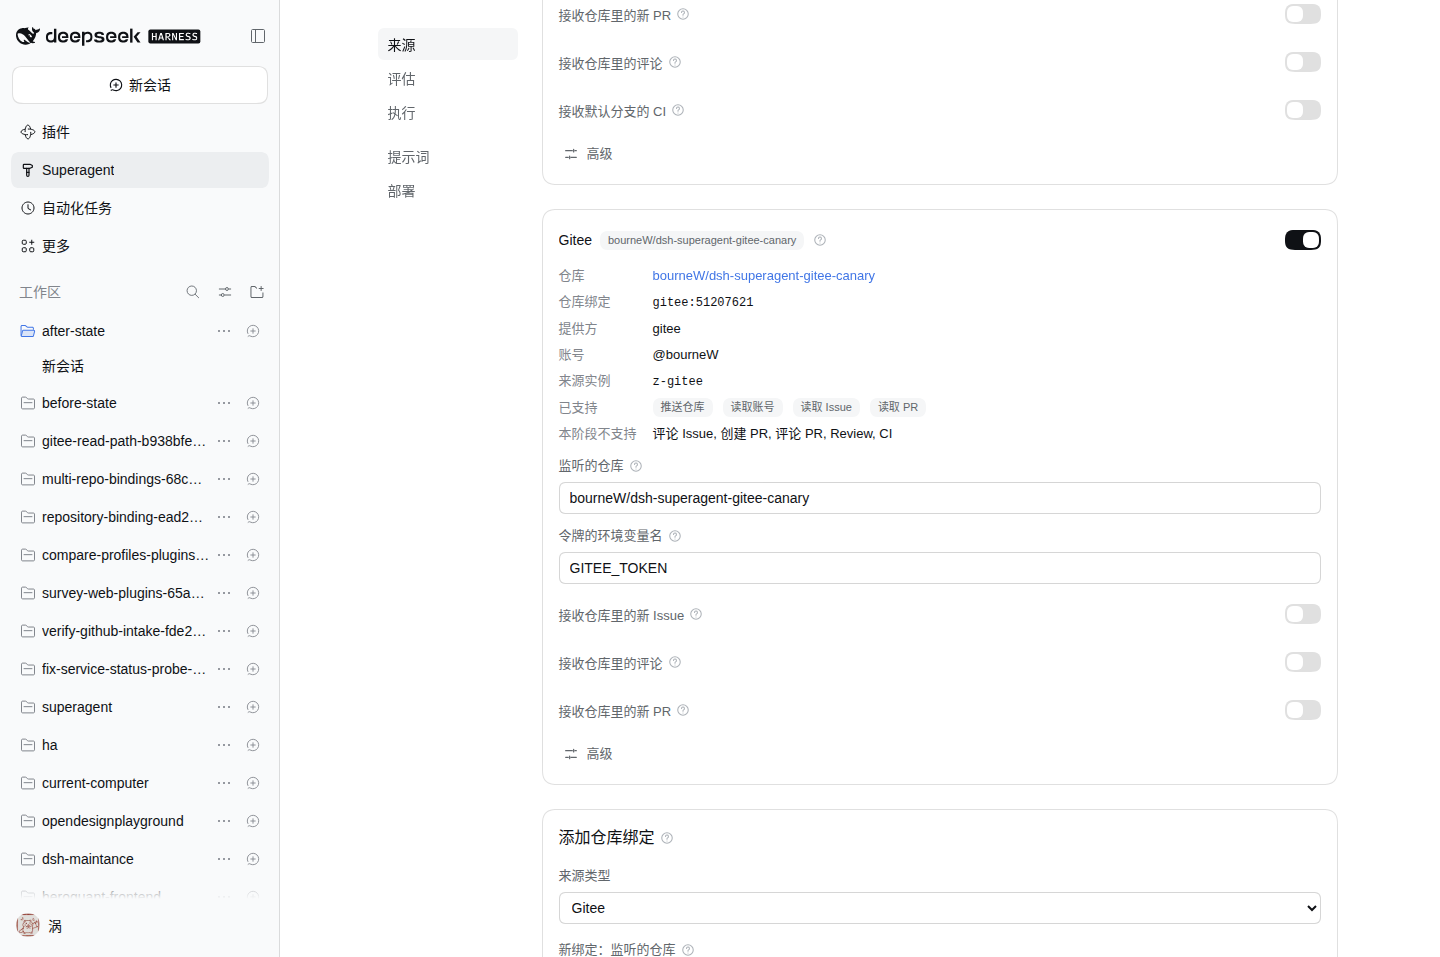
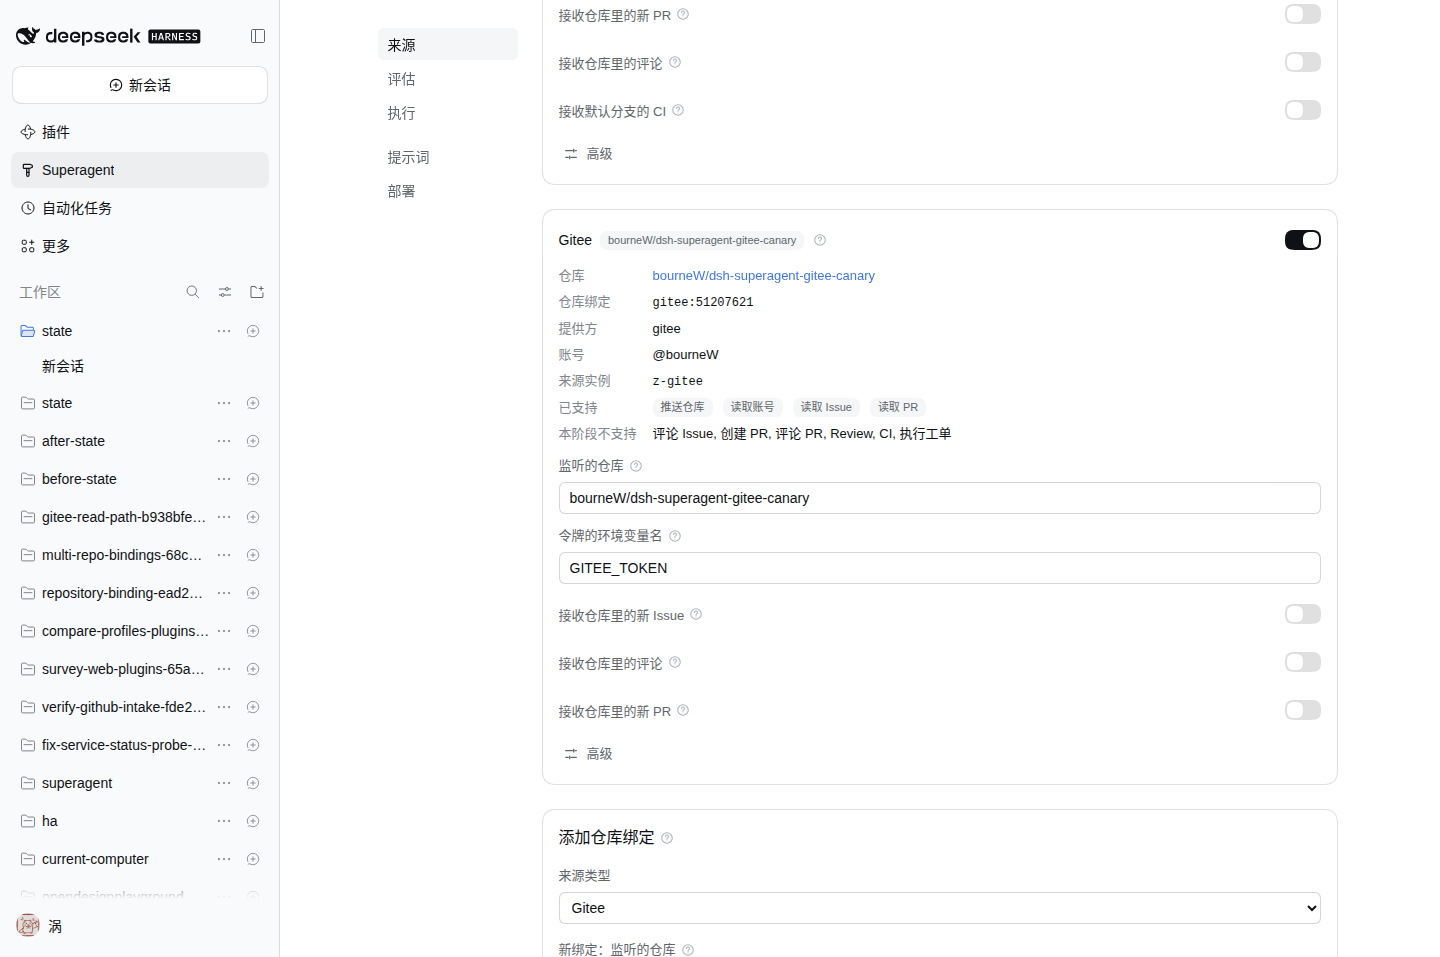
fix: gate ticket execution on the binding's capability
Remove the unused GithubSourceInput compatibility alias. Add a persisted
execution capability to RepositoryBinding capabilities, wire it through
EngineOptions.executionAllowed, and record an accept for a binding that
cannot execute as an executionUnsupported ignore, so no Ticket or
runnable Assignment is created. Gitee reports execution false until
Phase 4 implements the complete write path.

Refs #13

diff --git a/tests/gitee-source.spec.ts b/tests/gitee-source.spec.ts
@@ -10,7 +10,7 @@ import { Store } from '../src/app/store.ts'
 import { sourceContextOf, type SourceContextDeps } from '../src/app/source-context.ts'
 import { SourceRegistry, healthKey } from '../src/sources/registry.ts'
 import { HealthBoard } from '../src/infra/health.ts'
-import { giteeKind, pollWhenEnabled } from '../src/sources/gitee.ts'
+import { giteeIssueTrigger, giteeKind, pollWhenEnabled } from '../src/sources/gitee.ts'
 import { giteeForgeAdapter } from '../src/forge/gitee.ts'
 import { resolveDeployment } from '../src/deployment.ts'
 import { repositoryId, type RepositoryBinding } from '../src/repository.ts'
@@ -56,6 +56,7 @@ interface Harness {
   deployment: ReturnType<typeof testDeployment>
   engine: Engine
   candidates: Candidate[]
+  starts: string[]
   ctx: (id: string) => SourceContext
   close(): void
 }
@@ -84,14 +85,17 @@ function harness(options: { accounts?: Record<string, string>; observePulls?: bo
     giteeCredentials: Object.fromEntries(bindings.map(item => [item.binding.credentialId, { tokenEnv: 'GITEE_TOKEN',
       login: accounts[item.sourceId]!, userId: item.sourceId === 'gitee-a' ? '618074' : '700001' }])) })
   const candidates: Candidate[] = []
+  const starts: string[] = []
   const assessor: Assessor = { request: candidate => { candidates.push(candidate) } }
   const engine = new Engine({ repo: store, scope: sources, policy: () => settingsPolicy(store.settings(), sources), assessor,
-    executor: { start: vi.fn(), deliver: vi.fn(), stop: vi.fn() }, outbox: { send: vi.fn(), status: () => undefined, withdraw: vi.fn() },
+    executor: { start: ticket => { starts.push(ticket.id) }, deliver: vi.fn(), stop: vi.fn() }, outbox: { send: vi.fn(), status: () => undefined, withdraw: vi.fn() },
     threadRepository: ref => sources.bindingOf(ref.source)?.id ?? ref.repositoryId ?? null, repositoryExists: id => !!store.repositories.get(id),
+    // The Runtime wires the same provider-neutral capability check; a Gitee binding reports execution false in Phase 3.
+    executionAllowed: id => id === null ? true : store.repositories.get(id)?.capabilities.execution === true,
     emit: () => {}, prepareTicket: ticket => ticket })
   const deps: SourceContextDeps = { store, engine, outbox: { send: vi.fn() }, commands: testCommands(() => deployment, {}, undefined, null),
     sources, deployment, ready: Promise.resolve(), configured: () => true, receive: trigger => engine.receive(trigger) }
-  return { directory, database, store, board, sources, deployment, engine, candidates, ctx: id => sourceContextOf(deps, giteeKind, id),
+  return { directory, database, store, board, sources, deployment, engine, candidates, starts, ctx: id => sourceContextOf(deps, giteeKind, id),
     close: () => { store.close(); rmSync(directory, { recursive: true, force: true }) } }
 }
 const seed = (store: Store, binding: RepositoryBinding, sourceId = 'gitee-a') =>
@@ -162,6 +166,28 @@ describe('Gitee read path', () => {
       expect(threadKey(pulls[0]!.threads[0]!)).toBe('gitee-a:pull:1446764')
       expect(h.store.tickets.open()).toEqual([])
       expect(h.deployment.repositories[0]!.capabilities.pulls).toMatchObject({ create: false, comment: false, reviews: false })
+    } finally { h.close() }
+  })
+
+  it('does not accept a Gitee Trigger whose binding has no execution capability, so no Assignment is runnable', () => {
+    const h = harness()
+    try {
+      // Phase 3's Gitee adapter reports execution unsupported; a GitHub adapter reports it supported.
+      expect(A.capabilities.execution).toBe(false)
+      expect(giteeForgeAdapter.capabilities.execution).toBe(false)
+      const issue = { nativeId: '9001', displayNumber: 'IKS9001', threadId: '9001', title: 'Fix the login',
+        body: '@agent-bot please fix the login', author: { providerUserId: 'u-alice', login: 'alice' }, createdAt: at, updatedAt: at,
+        webUrl: `${A.webUrl}/issues/IKS9001`, comments: 0 }
+      const trigger = giteeIssueTrigger(issue, 'agent-bot', { sourceId: 'gitee-a', repositoryId: A.id })
+      h.engine.receive(trigger)
+      h.engine.evaluateDue()
+      const candidate = h.candidates.at(-1)!
+      const decision = h.engine.decide(trigger.id, { kind: 'accept', title: 'Fix the login', scope: 'the login form', reason: 'asked',
+        evalId: candidate.evalId })
+      expect(decision).toMatchObject({ kind: 'ignore', reason: [{ code: 'executionUnsupported' }] })
+      expect(decision.ticketId).toBeUndefined()
+      expect(h.store.tickets.list()).toEqual([])
+      expect(h.starts).toEqual([])
     } finally { h.close() }
   })
 

diff --git a/src/client/locales.ts b/src/client/locales.ts
@@ -168,6 +168,7 @@ const TEXT = {
   'sourceCapability.pulls.comment': ['评论 PR', 'Comment on pull requests'],
   'sourceCapability.pulls.reviews': ['Review', 'Reviews'],
   'sourceCapability.ci': ['CI', 'CI'],
+  'sourceCapability.execution': ['执行工单', 'Execute tickets'],
   sourceOpenTicketsLabel: ['打开工单', 'Open tickets'],
   sourceQueuedLabel: ['排队启动', 'Queued launches'],
   sourceRepositoryUnbound: ['等待部署检查绑定仓库', 'Waiting for the deployment check to bind a repository'],
@@ -621,6 +622,7 @@ const TEXT = {
   'reason.directionUnsettled': ['实现意图或目标未确定，或还要产品或设计决定', 'Intent or target not settled, or a product or design decision is still open'],
   'reason.noRuleMatched': ['没有启用的准入规则匹配', 'No enabled admission rule matched'],
   'reason.ignoredFromCard': ['仅凭候选卡片忽略，未经规则研判', 'Ignored from its card, without a rule assessment'],
+  'reason.executionUnsupported': ['这个仓库绑定还不能执行工作', 'This repository binding cannot execute work yet'],
   'reason.observed': ['观察模式：本会接单（{text}）', 'Observe mode: would accept ({text})'],
   'reason.explicitRouted': ['名单里的人明确请求，由主 Session 接单', 'Explicit request from someone on the list, accepted by the main Session'],
   'reason.legacyImport': ['从旧版工单记录导入', 'Imported from a legacy Ticket record'],

diff --git a/src/core/evals.ts b/src/core/evals.ts
@@ -154,6 +154,12 @@ export class Evals extends EnginePart {
     if (outcome.kind === 'accept' && evaluation.strength !== 'explicit' && !this.policy().admitsInferred(outcome.rules ?? [])) {
       throw new UserError('notExplicit')
     }
+    // A binding whose provider has no complete write path cannot accept work: record why instead of creating a Ticket and
+    // an Assignment that could never run. The capability belongs to the binding's adapter, not to the Engine.
+    if (outcome.kind === 'accept' && !this.executable(outcome.repositoryId ?? thread.repositoryId ?? null)) {
+      return this.decideEval(thread, evaluation, { kind: 'ignore', reason: { code: 'executionUnsupported' },
+        ...outcome.audit ? { audit: outcome.audit } : {} })
+    }
     return this.decideEval(thread, evaluation, outcome)
   }
   /**
@@ -258,6 +264,10 @@ export class Evals extends EnginePart {
     this.record(thread, evaluation, { kind: 'ignore', reason })
     thread.pending = thread.pending.filter(id => !ids.includes(id))
     delete thread.expired
+  }
+  /** Whether the binding's provider has the complete write path this Runtime says a Ticket may execute under. */
+  private executable(repositoryId: string | null): boolean {
+    return this.options.executionAllowed?.(repositoryId) ?? true
   }
   /**
    * The accept Decisions of the Triggers whose primary Thread is `threadKey`, by Trigger: what each one started. An Eval and

diff --git a/src/forge/capabilities.ts b/src/forge/capabilities.ts
@@ -12,12 +12,14 @@ export const ForgeCapabilitiesSchema = z.object({
   issues: z.object({ read: z.boolean(), comment: z.boolean() }).strict(),
   pulls: z.object({ read: z.boolean(), create: z.boolean(), comment: z.boolean(), reviews: z.boolean() }).strict(),
   ci: z.boolean(),
+  /** Whether the adapter's complete write path lets a Ticket execute here; Phase 3 reports false for Gitee. */
+  execution: z.boolean(),
 }).strict()
 export type ForgeCapabilities = z.infer<typeof ForgeCapabilitiesSchema>
 
 /** Capability identifiers in presentation order, with the operation each describes. */
 export const FORGE_CAPABILITY_IDS = ['repository', 'identity', 'issues.read', 'issues.comment', 'pulls.read', 'pulls.create', 'pulls.comment',
-  'pulls.reviews', 'ci'] as const
+  'pulls.reviews', 'ci', 'execution'] as const
 export type ForgeCapabilityId = typeof FORGE_CAPABILITY_IDS[number]
 
 /** Whether one capability identifier is supported, reading the nested flags of a capabilities record. */
@@ -32,6 +34,7 @@ export function forgeSupports(capabilities: ForgeCapabilities, id: ForgeCapabili
     case 'pulls.comment': return capabilities.pulls.comment
     case 'pulls.reviews': return capabilities.pulls.reviews
     case 'ci': return capabilities.ci
+    case 'execution': return capabilities.execution
   }
 }
 /** The capability identifiers a binding's adapter does not support, for the panel's unsupported-feature facts. */

diff --git a/tests/forge-contract.spec.ts b/tests/forge-contract.spec.ts
@@ -69,7 +69,7 @@ function fakeForge(): ForgeAdapter {
   return {
     provider: 'fake',
     capabilities: { repository: 'read-write', identity: true, issues: { read: true, comment: true },
-      pulls: { read: true, create: false, comment: false, reviews: false }, ci: false },
+      pulls: { read: true, create: false, comment: false, reviews: false }, ci: false, execution: true },
     presentation: { issueUrl: (repository, number) => `${repository.webUrl}/issues/${number}`, pullUrl: (repository, number) => `${repository.webUrl}/pulls/${number}`,
       accountUrl: login => `https://forge.test/${login}` },
     async resolveRepository() {
@@ -152,6 +152,7 @@ describe('forge adapter contract', () => {
     expect(resolution!.capabilities.pulls.create).toBe(false)
     expect(resolution!.capabilities.pulls.reviews).toBe(false)
     expect(resolution!.capabilities.ci).toBe(false)
+    expect(resolution!.capabilities.execution).toBe(false)
     // The token travels in the Authorization header only: never in a URL, the resolution, or an error message.
     expect(http.urls.every(url => !url.href.includes(token))).toBe(true)
     expect(JSON.stringify(resolution)).not.toContain(token)

diff --git a/src/app/runtime.ts b/src/app/runtime.ts
@@ -152,6 +152,8 @@ export class Runtime extends Service implements SourceHost {
         // Acceptance binds a repository-less request to the one enabled binding, and records it on the ticket.
         // A Thread reference resolves its Source instance's binding before the Thread exists, so a worker cannot follow another repository's Thread.
         threadRepository: ref => sources.bindingOf(ref.source)?.id ?? ref.repositoryId ?? null,
+        // The binding's adapter says whether its write path lets a Ticket run; a missing binding fails closed.
+        executionAllowed: repositoryId => repositoryId === null ? true : store.repositories.get(repositoryId)?.capabilities.execution === true,
         repositoryExists: repositoryId => !!store.repositories.get(repositoryId),
         emit: event => {
           // Notify the main Session only about domain events it did not initiate itself.

diff --git a/tests/fixtures/deployment.ts b/tests/fixtures/deployment.ts
@@ -15,7 +15,7 @@ export const testMachine = (overrides: Partial<Machine> = {}): Machine => ({
   admissionContextTimeoutMs: reference(15000), ...overrides,
 })
 export const testCapabilities: ForgeCapabilities = { repository: 'read-write', identity: true, issues: { read: true, comment: true },
-  pulls: { read: true, create: true, comment: true, reviews: true }, ci: true }
+  pulls: { read: true, create: true, comment: true, reviews: true }, ci: true, execution: true }
 export const testGithub: GithubCredential = { cli: '/bin/false', login: 'agent-bot', noreply: '7+agent-bot@users.noreply.github.com' }
 export const testRepository: RepositoryBinding = { id: 'github:101', provider: 'github', providerRepositoryId: '101', slug: 'acme/widgets',
   webUrl: 'https://github.com/acme/widgets', credentialId: 'github:github', capabilities: testCapabilities, enabled: true }

diff --git a/tests/deployment.spec.ts b/tests/deployment.spec.ts
@@ -65,7 +65,7 @@ describe('setup', () => {
     expect(deployment.repositories).toEqual([{ id: 'github:101', provider: 'github', providerRepositoryId: '101', slug: 'acme/widgets',
       webUrl: 'https://github.com/acme/widgets', credentialId: 'github:github', enabled: true, capabilities: {
         repository: 'read-write', identity: true, issues: { read: true, comment: true },
-        pulls: { read: true, create: true, comment: true, reviews: true }, ci: true } }])
+        pulls: { read: true, create: true, comment: true, reviews: true }, ci: true, execution: true } }])
     expect(deployment.credentials['github:github']).toEqual(deployment.github)
     expect(deployment).not.toHaveProperty('feishu')
     // A renamed repository is still resolved by its old name; the binding keeps GitHub's immutable ID and current full_name.

diff --git a/src/deployment.ts b/src/deployment.ts
@@ -105,8 +105,6 @@ function parsed<T>(schema: z.ZodType<T>, text: string): T | undefined {
 }
 /** A Source instance's config as setup reads it; `kind` defaults to the instance ID and selects the forge adapter. */
 export interface ForgeSourceInput { sourceId: string; kind?: string; enabled: boolean; config: unknown; repositoryId?: string | null }
-/** @deprecated Kept for callers that still name the GitHub shape; every forge Source resolves through the same input. */
-export type GithubSourceInput = ForgeSourceInput
 /**
  * Resolve every configured repository-bound Source through its provider's forge adapter. Each enabled instance resolves
  * exactly one RepositoryBinding whose stable ID is the provider's immutable repository ID; a slug is only a display name

diff --git a/src/core/part.ts b/src/core/part.ts
@@ -17,6 +17,11 @@ export interface EngineOptions {
   repositoryExists?(repositoryId: string): boolean
   /** The repository binding a Thread reference belongs to, resolved by its Source instance when the Thread is not stored yet. */
   threadRepository?(ref: ThreadRef): string | null
+  /**
+   * Whether a binding's provider has the complete write path for a Ticket to execute; an accept for one that does not is
+   * recorded as an ignore, so no Ticket or Assignment is created. Absent means every binding may execute.
+   */
+  executionAllowed?(repositoryId: string | null): boolean
   now?: () => string
   emit?: (event: DomainEvent) => void
 }

diff --git a/src/forge/github.ts b/src/forge/github.ts
@@ -12,7 +12,7 @@ import type { ForgeCapabilities } from './capabilities.ts'
 
 const GITHUB_CAPABILITIES: ForgeCapabilities = {
   repository: 'read-write', identity: true, issues: { read: true, comment: true },
-  pulls: { read: true, create: true, comment: true, reviews: true }, ci: true,
+  pulls: { read: true, create: true, comment: true, reviews: true }, ci: true, execution: true,
 }
 const GithubUserSchema = z.looseObject({ login: z.string(), id: z.number().int().positive().optional(), type: z.string().optional() }).nullable()
   .transform(user => user ?? { login: 'ghost', type: 'User' })

diff --git a/src/forge/gitee.ts b/src/forge/gitee.ts
@@ -22,7 +22,7 @@ const TIMEOUT_MS = 30_000
  */
 const GITEE_CAPABILITIES: ForgeCapabilities = {
   repository: 'read-write', identity: true, issues: { read: true, comment: false },
-  pulls: { read: true, create: false, comment: false, reviews: false }, ci: false,
+  pulls: { read: true, create: false, comment: false, reviews: false }, ci: false, execution: false,
 }
 const GiteeUserSchema = z.looseObject({ login: z.string(), id: z.number().int().positive().optional(), name: z.string().nullish() })
 const GiteeRepositorySchema = z.looseObject({
